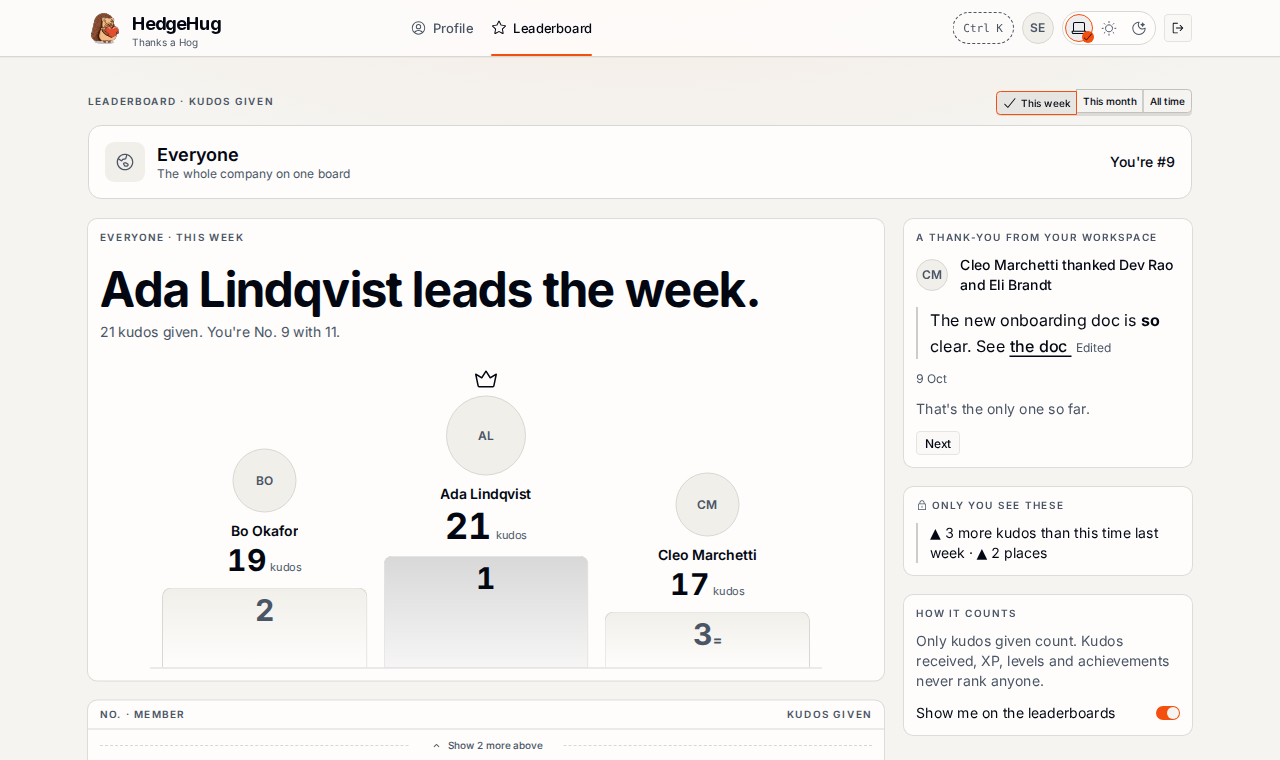
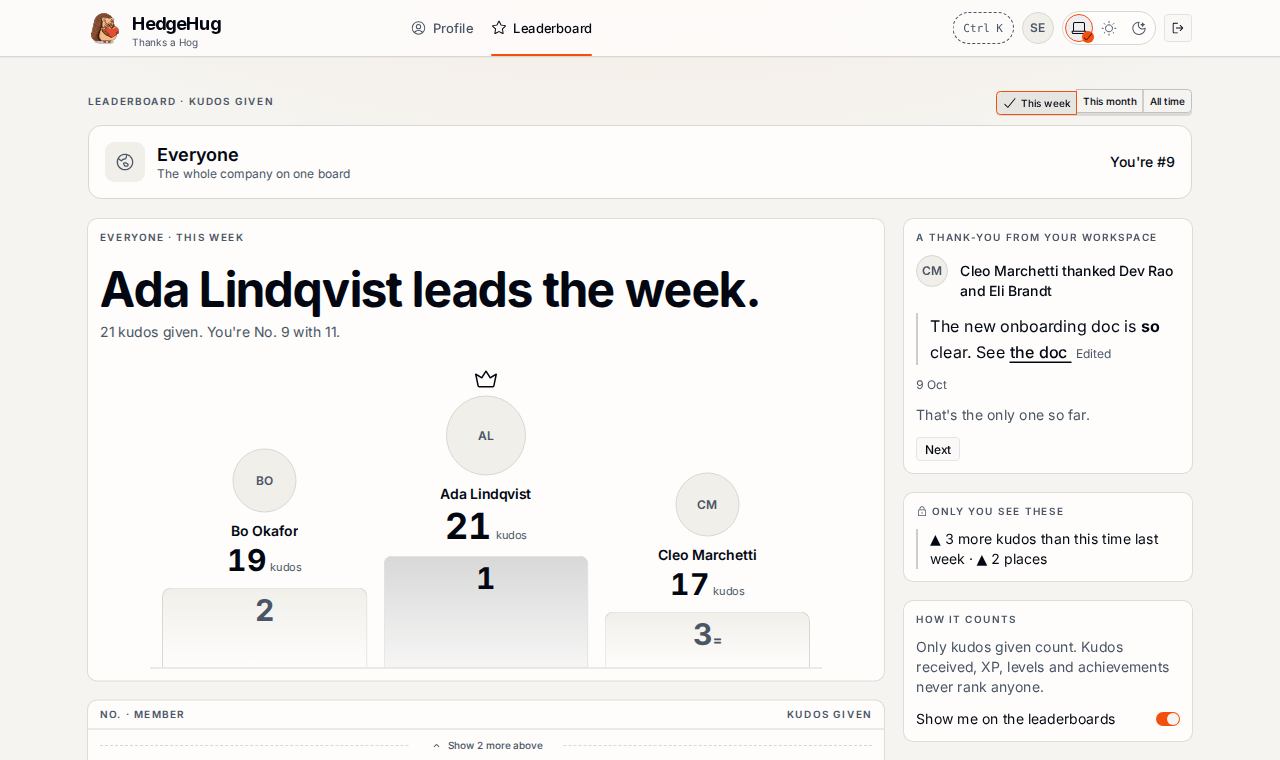
Dim Next while the draw loads and align the giver's face to the name (#250 Fable spot check)

Changed region(s): [[0.7188, 0.3329, 0.9375, 0.9684], [0.9062, 0.9382, 0.9375, 0.9684]]

diff --git a/website/src/leaderboard/Spotlight.tsx b/website/src/leaderboard/Spotlight.tsx
@@ -30,9 +30,9 @@ export function Spotlight({ draw }: { draw: SpotlightDraw }) {
 function ThankYou({ kudos: { giver, recipients, message, at, permalink } }: { kudos: SpotlightKudos }) {
   return (
     <>
-      <p className="flex items-center gap-3 font-medium">
+      <p className="flex items-start gap-3 font-medium">
         <MemberFace face={giver.face} className="size-8" />
-        <span className="min-w-0 [overflow-wrap:anywhere]">{`${giver.name} thanked ${namesOf(recipients)}`}</span>
+        <span className="mt-1.5 min-w-0 [overflow-wrap:anywhere]">{`${giver.name} thanked ${namesOf(recipients)}`}</span>
       </p>
       <blockquote className="border-l-2 border-foreground/20 pl-3 text-base leading-relaxed">
         <KudosMessage message={message} clamped={false} />
@@ -56,7 +56,7 @@ function OpenInSlack({ permalink, giver }: { permalink: string; giver: string })
 
 function DrawButton({ drawing, onPress, children }: { drawing: boolean; onPress: () => void; children: string }) {
   return (
-    <Button variant="outline" size="sm" className="self-start" aria-disabled={drawing || undefined} onClick={onPress}>
+    <Button variant="outline" size="sm" className="self-start aria-disabled:cursor-progress aria-disabled:opacity-60" aria-disabled={drawing || undefined} onClick={onPress}>
       {children}
     </Button>
   );
